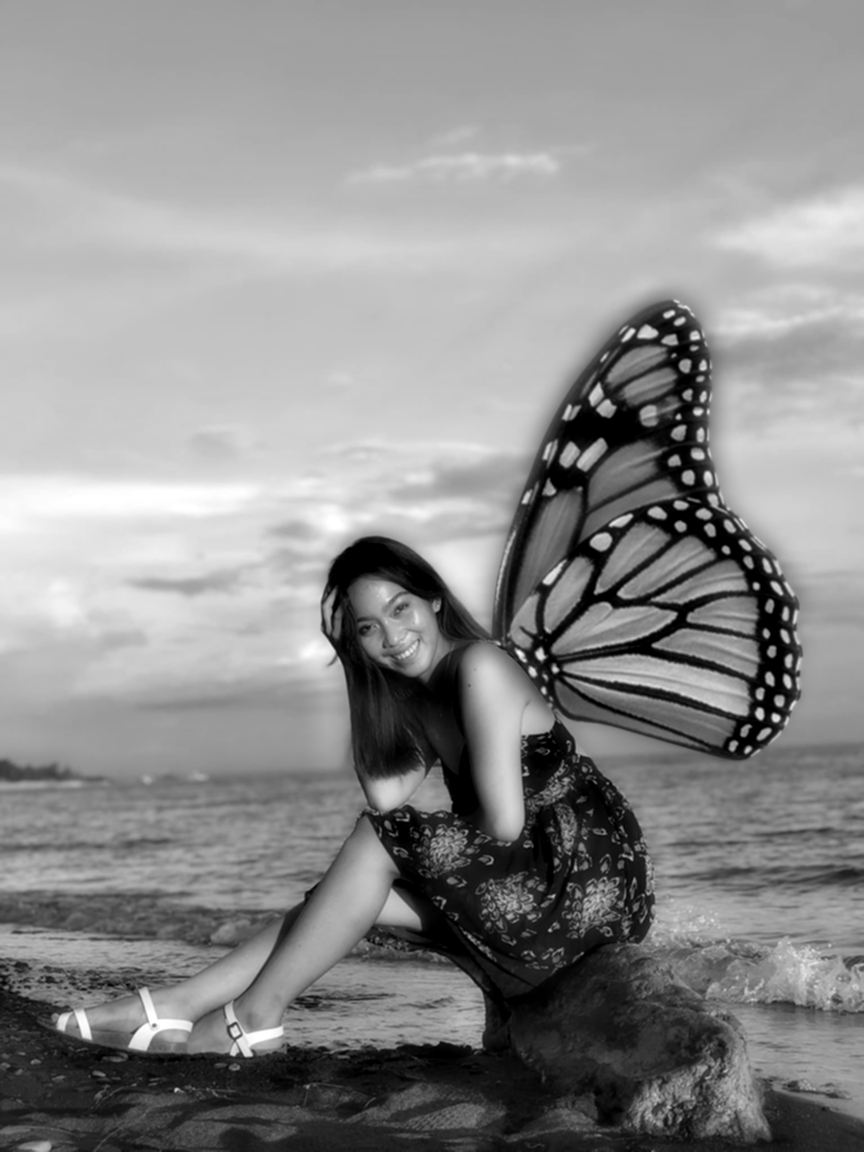
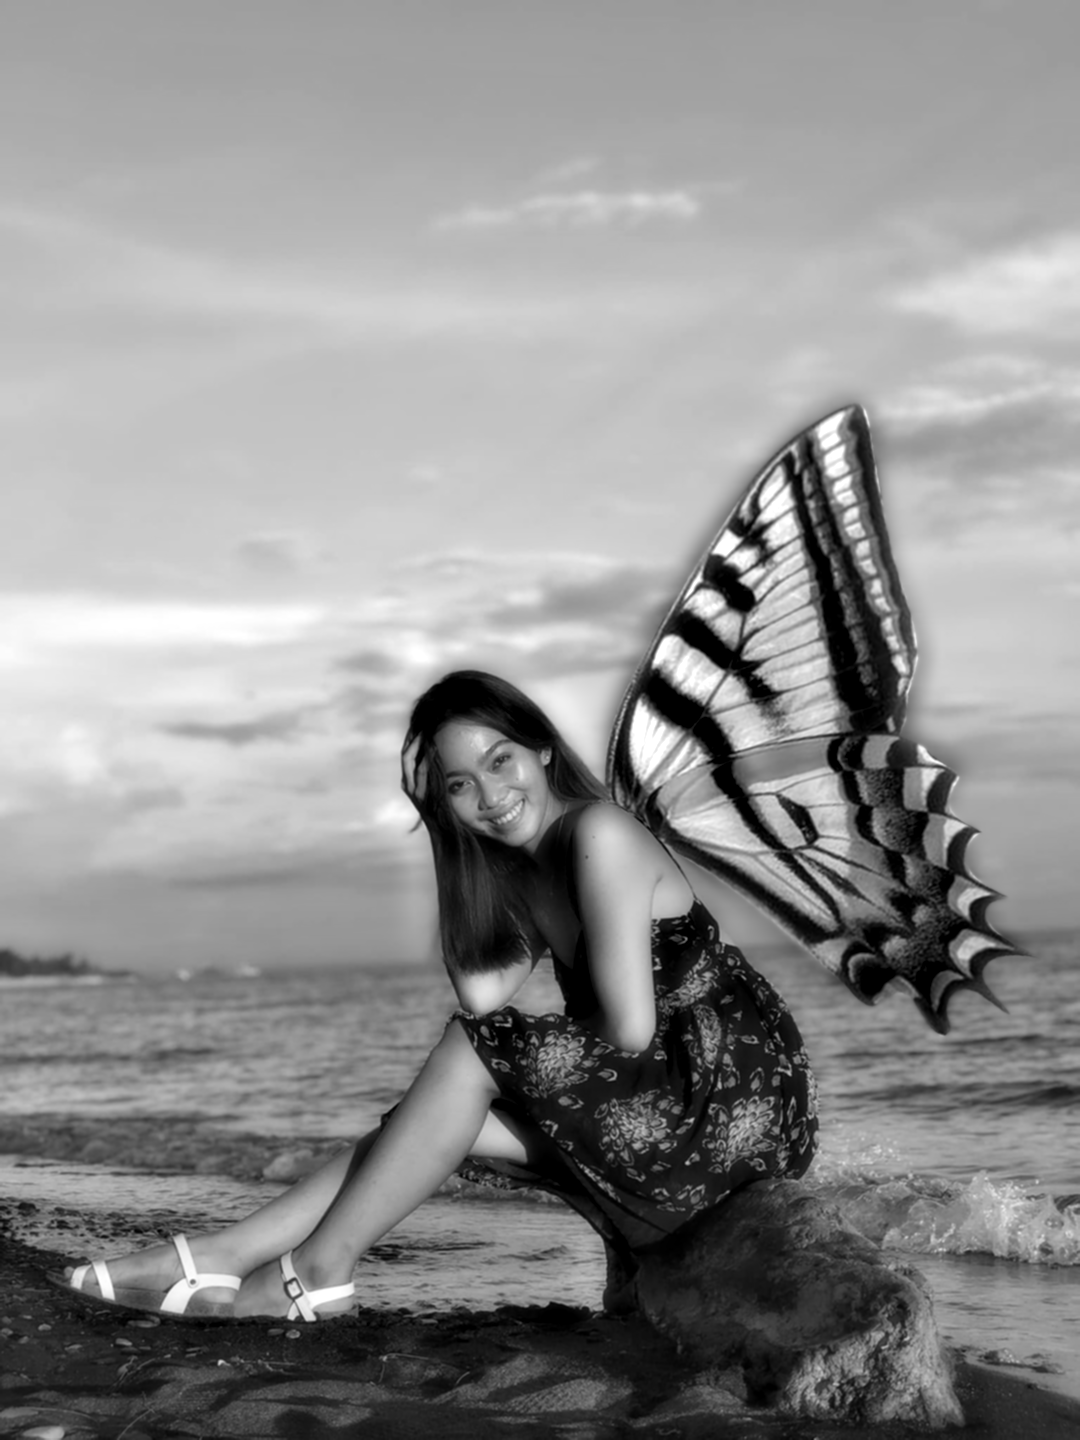
changes

Changed region(s): [[0.5312, 0.25, 0.9688, 0.7188]]

diff --git a/Blended images/try.py b/Blended images/try.py
@@ -1,0 +1,157 @@
+import cv2
+import numpy as np
+import matplotlib.pyplot as plt
+
+# Function to apply Gaussian blur
+def apply_gaussian(image, levels, sigma):
+
+    gaussian = []
+    for i in range(levels):
+        kernel_size = ((3*sigma)//2)*2+1
+
+        blurred_image = cv2.GaussianBlur(image, (kernel_size, kernel_size), sigma)
+        gaussian.append(blurred_image)
+
+        # Increase sigma for the next level
+        sigma *= 2
+
+    return gaussian
+
+# Function to create Laplacian stack
+def laplacian_effect(img, levels, sigma):
+    laplacian = []
+
+    # Apply Gaussian blur and create the Gaussian pyramid
+    gaussian = apply_gaussian(img, levels + 1, sigma)
+
+    for i in range(levels):
+        laplacian_image = cv2.subtract(gaussian[i], gaussian[i + 1])
+        laplacian.append(laplacian_image)
+
+    return laplacian
+
+# Function to blend two images (color version)
+def blend_images_color(img1, img2, mask, levels, sigma):
+    # Split the color images into channels (BGR in OpenCV)
+    img1_b, img1_g, img1_r = cv2.split(img1)
+    img2_b, img2_g, img2_r = cv2.split(img2)
+
+    # Apply Gaussian and Laplacian for each channel
+    gaussian1_b = apply_gaussian(img1_b, levels, sigma)
+    gaussian2_b = apply_gaussian(img2_b, levels, sigma)
+    gaussianMask_b = apply_gaussian(mask, levels, sigma)
+
+    gaussian1_g = apply_gaussian(img1_g, levels, sigma)
+    gaussian2_g = apply_gaussian(img2_g, levels, sigma)
+    gaussianMask_g = apply_gaussian(mask, levels, sigma)
+
+    gaussian1_r = apply_gaussian(img1_r, levels, sigma)
+    gaussian2_r = apply_gaussian(img2_r, levels, sigma)
+    gaussianMask_r = apply_gaussian(mask, levels, sigma)
+
+    laplacian1_b = laplacian_effect(img1_b, levels, sigma)
+    laplacian2_b = laplacian_effect(img2_b, levels, sigma)
+    
+    laplacian1_g = laplacian_effect(img1_g, levels, sigma)
+    laplacian2_g = laplacian_effect(img2_g, levels, sigma)
+
+    laplacian1_r = laplacian_effect(img1_r, levels, sigma)
+    laplacian2_r = laplacian_effect(img2_r, levels, sigma)
+
+    # Blend the channels
+    laplacian_stack_b = []
+    for i in range(levels):
+        blended_laplacian = gaussianMask_b[i] * laplacian1_b[i] + (1 - gaussianMask_b[i]) * laplacian2_b[i]
+        laplacian_stack_b.append(blended_laplacian)
+
+    laplacian_stack_g = []
+    for i in range(levels):
+        blended_laplacian = gaussianMask_g[i] * laplacian1_g[i] + (1 - gaussianMask_g[i]) * laplacian2_g[i]
+        laplacian_stack_g.append(blended_laplacian)
+
+    laplacian_stack_r = []
+    for i in range(levels):
+        blended_laplacian = gaussianMask_r[i] * laplacian1_r[i] + (1 - gaussianMask_r[i]) * laplacian2_r[i]
+        laplacian_stack_r.append(blended_laplacian)
+
+    # Final Gaussian
+    final_gaussian_b = gaussianMask_b[-1] * gaussian1_b[-1] + (1 - gaussianMask_b[-1]) * gaussian2_b[-1]
+    final_gaussian_g = gaussianMask_g[-1] * gaussian1_g[-1] + (1 - gaussianMask_g[-1]) * gaussian2_g[-1]
+    final_gaussian_r = gaussianMask_r[-1] * gaussian1_r[-1] + (1 - gaussianMask_r[-1]) * gaussian2_r[-1]
+
+    output_b = final_gaussian_b
+    output_g = final_gaussian_g
+    output_r = final_gaussian_r
+
+    for i in range(levels):
+        output_b = cv2.add(laplacian_stack_b[i], output_b)
+        output_g = cv2.add(laplacian_stack_g[i], output_g)
+        output_r = cv2.add(laplacian_stack_r[i], output_r)
+
+    # Merge the channels back together
+    blended_image = cv2.merge([output_b, output_g, output_r])
+
+    return blended_image
+
+# Function to display the Gaussian stack
+def display_gaussian_stack(img, levels, sigma):
+    gaussian_stack = apply_gaussian(img, levels, sigma)
+
+    # Display the Gaussian stack
+    plt.figure(figsize=(12, 6))
+    plt.title("Gaussian Stack")
+    for i in range(levels):
+        plt.subplot(1, levels, i + 1)
+        plt.imshow(gaussian_stack[i], cmap='gray')
+        plt.title(f'Gaussian Level {i+1}')
+        plt.axis('off')
+
+    plt.tight_layout()
+    plt.show()
+
+# Function to display the Laplacian stack
+def display_laplacian_stack(img, levels, sigma):
+    laplacian_stack = laplacian_effect(img, levels, sigma)
+
+    # Display the Laplacian stack
+    plt.figure(figsize=(12, 6))
+    plt.title("Laplacian Stack")
+    for i in range(levels):
+        plt.subplot(1, levels, i + 1)
+        plt.imshow(laplacian_stack[i], cmap='gray', clim=(0, 0.1))
+        plt.title(f'Laplacian Level {i+1}')
+        plt.axis('off')
+
+    plt.tight_layout()
+    plt.show()
+
+# Load the images (as color images)
+imgA = cv2.imread('images/CirunayManejo_lab03_a.png', cv2.IMREAD_COLOR)
+imgB = cv2.imread('images/CirunayManejo_lab03_b.png', cv2.IMREAD_COLOR)
+mask = cv2.imread('images/CirunayManejo_lab03_mask.png', cv2.IMREAD_GRAYSCALE)
+
+# # Normalize images
+# imgA = imgA / 255.0
+# imgB = imgB / 255.0
+# mask = mask / 255.0
+
+# Parameters for the stack
+levels = 12
+sigma = 1
+
+# Blend the color images
+blended_image = blend_images_color(imgA, imgB, mask, levels, sigma)
+blended_image = np.clip(blended_image, 0, 1) 
+blended_image = (blended_image * 255).astype(np.uint8)
+
+# Display the blended image
+plt.imshow(blended_image)
+plt.title("Blended Image")
+plt.axis("off")
+plt.show()
+
+# Save the output
+cv2.imwrite('output/CirunayManejo_Lab03_enhanced.png', blended_image)
+
+cv2.waitKey(0)
+cv2.destroyAllWindows()

diff --git a/Blended images/CirunayManejo_lab03_blending.py b/Blended images/CirunayManejo_lab03_blending.py
@@ -59,11 +59,11 @@ def blend_images(img1, img2, mask, levels, sigma):
 
 # Function to display the Gaussian stack
 def display_gaussian_stack(img, levels, sigma):
-    # Apply Gaussian blur and get the Gaussian stack
     gaussian_stack = apply_gaussian(img, levels, sigma)
 
     # Display the Gaussian stack
     plt.figure(figsize=(12, 6))
+    plt.title("Gaussian Stack")
     for i in range(levels):
         plt.subplot(1, levels, i + 1)
         plt.imshow(gaussian_stack[i], cmap='gray')
@@ -75,11 +75,12 @@ def display_gaussian_stack(img, levels, sigma):
 
 # Function to display the Laplacian stack
 def display_laplacian_stack(img, levels, sigma):
-    # Get the Laplacian stack
+
     laplacian_stack = laplacian_effect(img, levels, sigma)
 
     # Display the Laplacian stack
     plt.figure(figsize=(12, 6))
+    plt.title("Laplacian Stack")
     for i in range(levels):
         plt.subplot(1, levels, i + 1)
         plt.imshow(laplacian_stack[i], cmap='gray', clim=(0, 0.1))
@@ -90,13 +91,13 @@ def display_laplacian_stack(img, levels, sigma):
     plt.show()
 
 # Load the images
-img1 = cv2.imread('images/4.jpg', cv2.IMREAD_GRAYSCALE)
-img2 = cv2.imread('images/3.jpg', cv2.IMREAD_GRAYSCALE)
-mask = cv2.imread('images/mask2.jpg', cv2.IMREAD_GRAYSCALE)
+imgA = cv2.imread('images/CirunayManejo_lab03_a.png', cv2.IMREAD_GRAYSCALE)
+imgB = cv2.imread('images/CirunayManejo_lab03_b.png', cv2.IMREAD_GRAYSCALE)
+mask = cv2.imread('images/CirunayManejo_lab03_mask.png', cv2.IMREAD_GRAYSCALE)
 
 # normalize images
-img1 = img1 / 255.0
-img2 = img2 / 255.0
+imgA = imgA / 255.0
+imgB = imgB / 255.0
 mask = mask / 255.0
 
 # Parameters for the stack
@@ -104,13 +105,13 @@ levels = 5
 sigma = 1
 
 # Display Gaussian stack for img2
-display_gaussian_stack(img2, levels, sigma)
+display_gaussian_stack(imgB, levels, sigma)
 
 # Display Laplacian stack for img2
-display_laplacian_stack(img2, levels, sigma)
+display_laplacian_stack(imgB, levels, sigma)
 
 # Blend the images
-blended_image = blend_images(img1, img2, mask, levels, sigma)
+blended_image = blend_images(imgA, imgB, mask, levels, sigma)
 blended_image = np.clip(blended_image, 0, 1) 
 blended_image = (blended_image * 255).astype(np.uint8)  
 
@@ -119,14 +120,14 @@ plt.title("Blended Image")
 plt.axis("off")
 plt.show()
 
-cv2.imwrite('CirunayManejo_Lab03_3.png', blended_image)
+cv2.imwrite('output/CirunayManejo_Lab03.png', blended_image)
 
 # WITH DIFFERENT PARAMETERS
 levels = 12
 sigma = 1
 
 # Blend the images
-blended_image = blend_images(img1, img2, mask, levels, sigma)
+blended_image = blend_images(imgA, imgB, mask, levels, sigma)
 blended_image = np.clip(blended_image, 0, 1) 
 blended_image = (blended_image * 255).astype(np.uint8)  
 
@@ -135,7 +136,7 @@ plt.title("Blended Image")
 plt.axis("off")
 plt.show()
 
-cv2.imwrite('Improved_2.png', blended_image)
+cv2.imwrite('output/CirunayManejo_Lab03_enhanced.png', blended_image)
 
 cv2.waitKey(0)
 cv2.destroyAllWindows()
